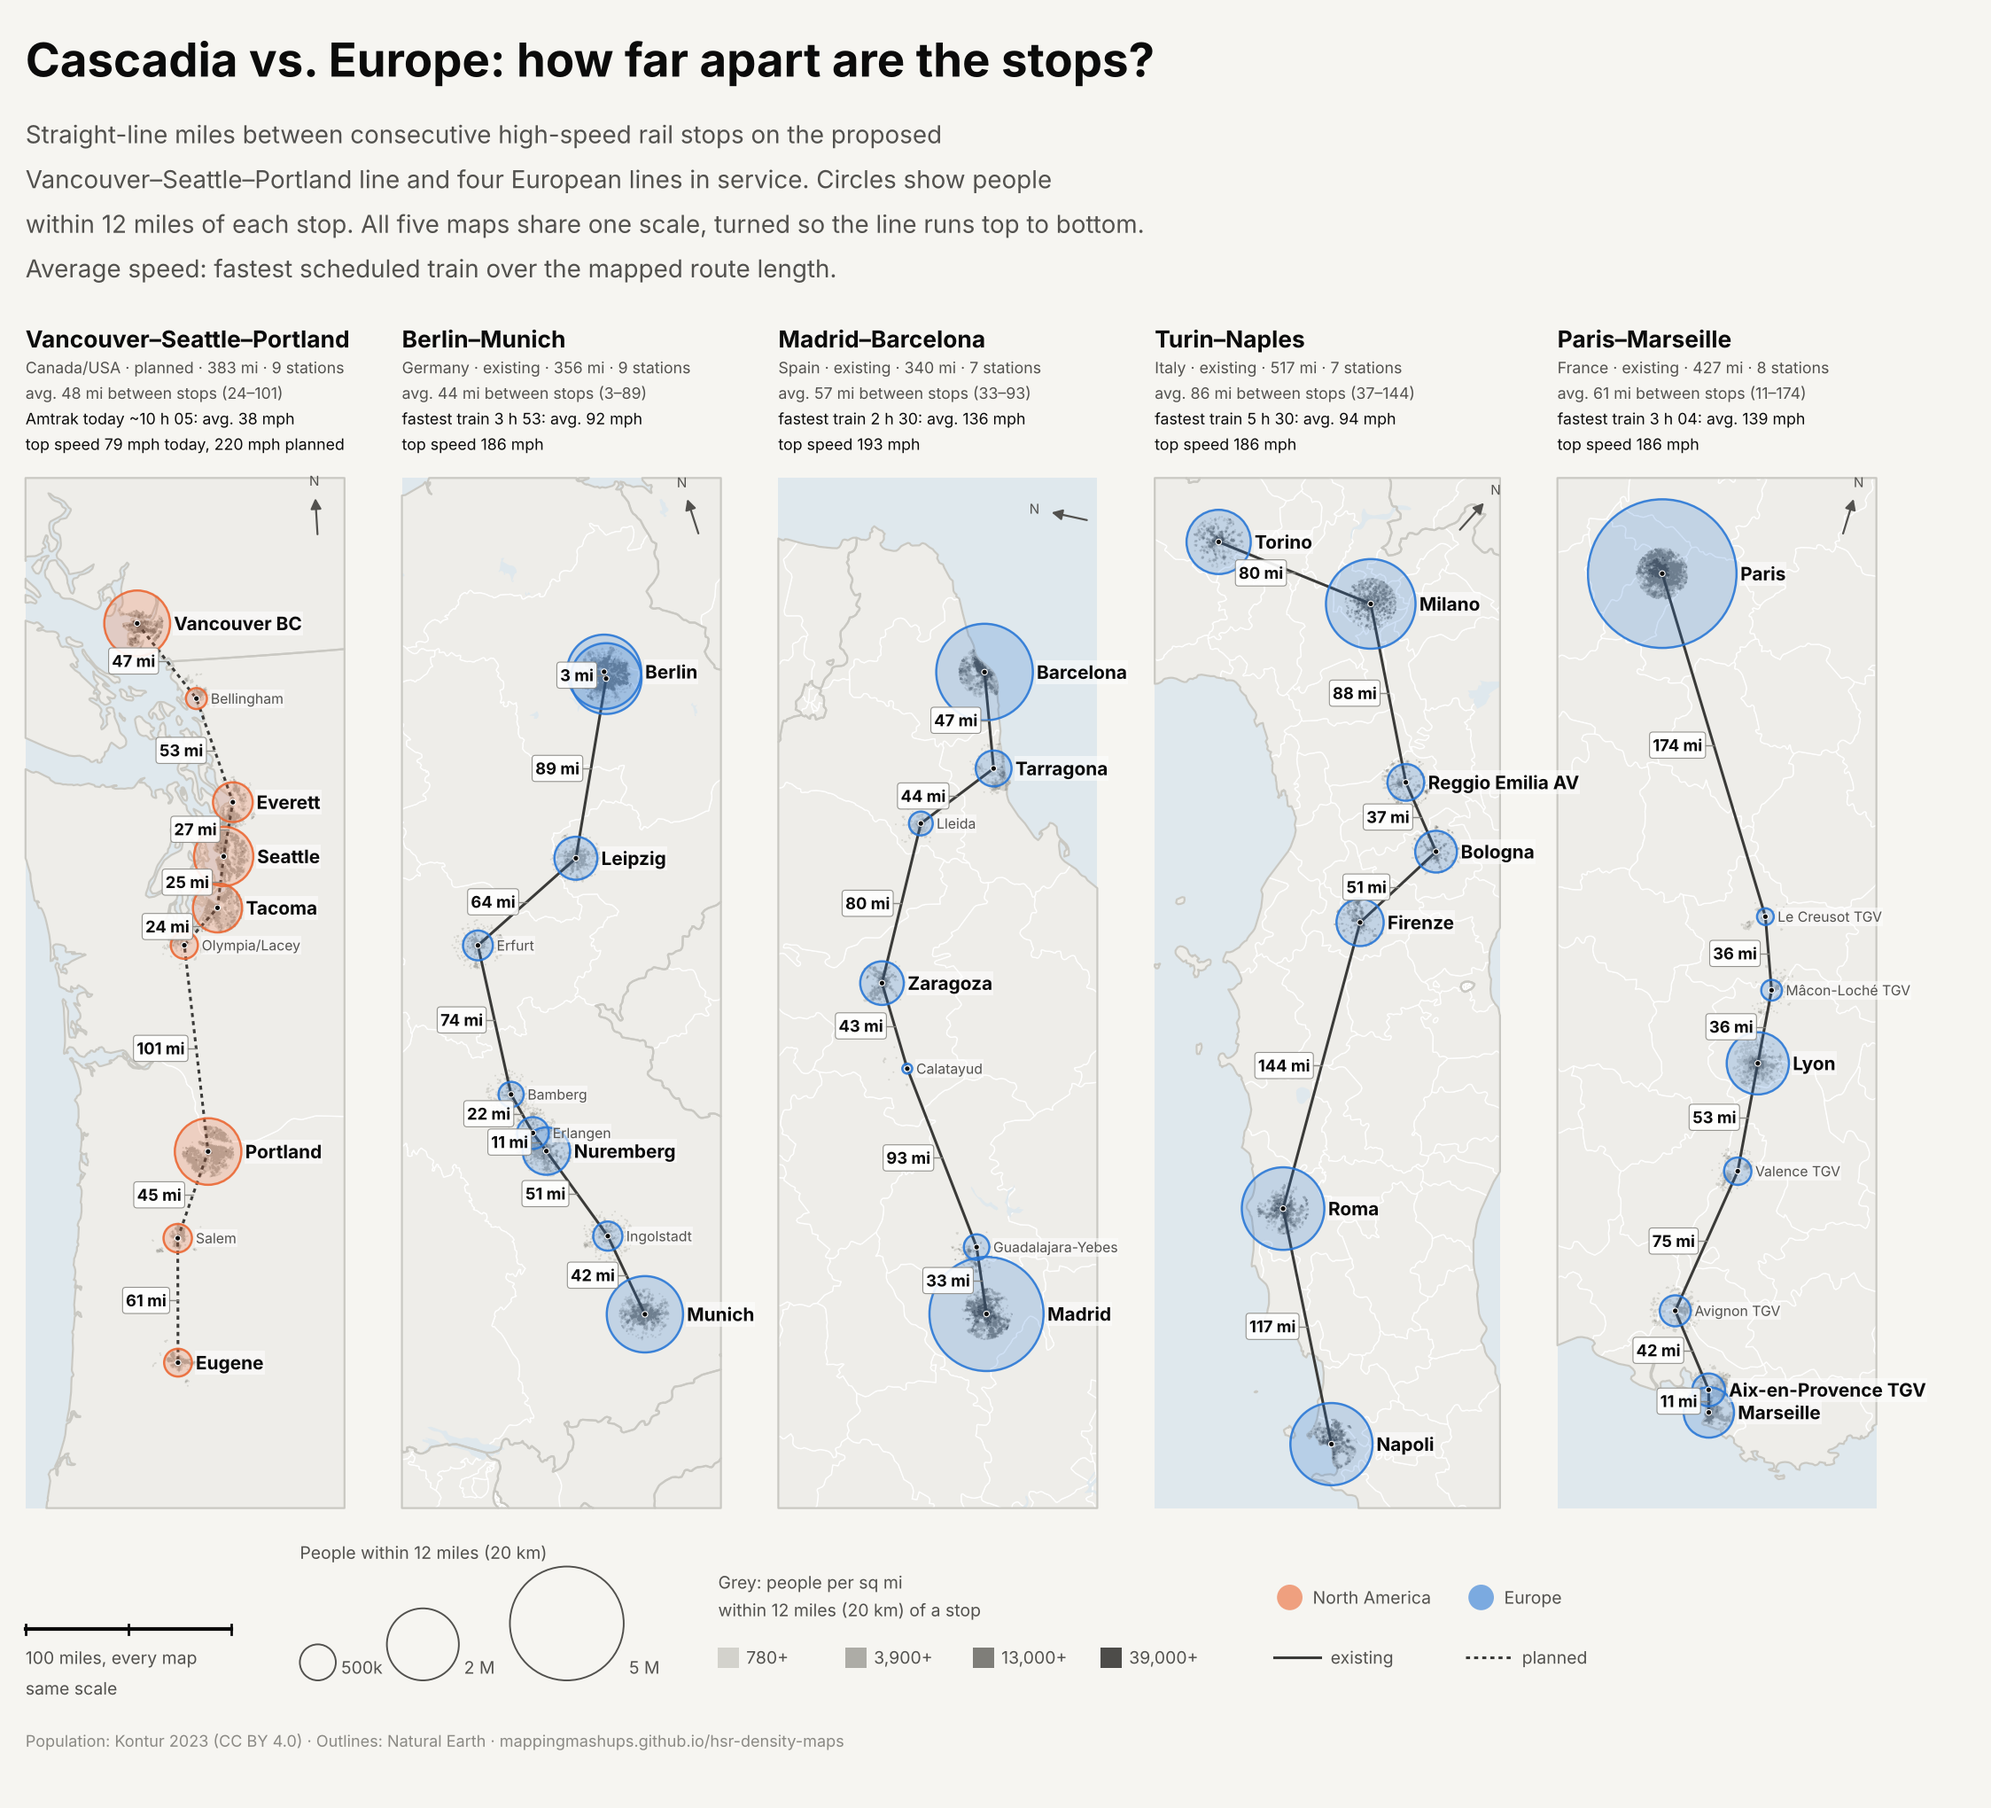
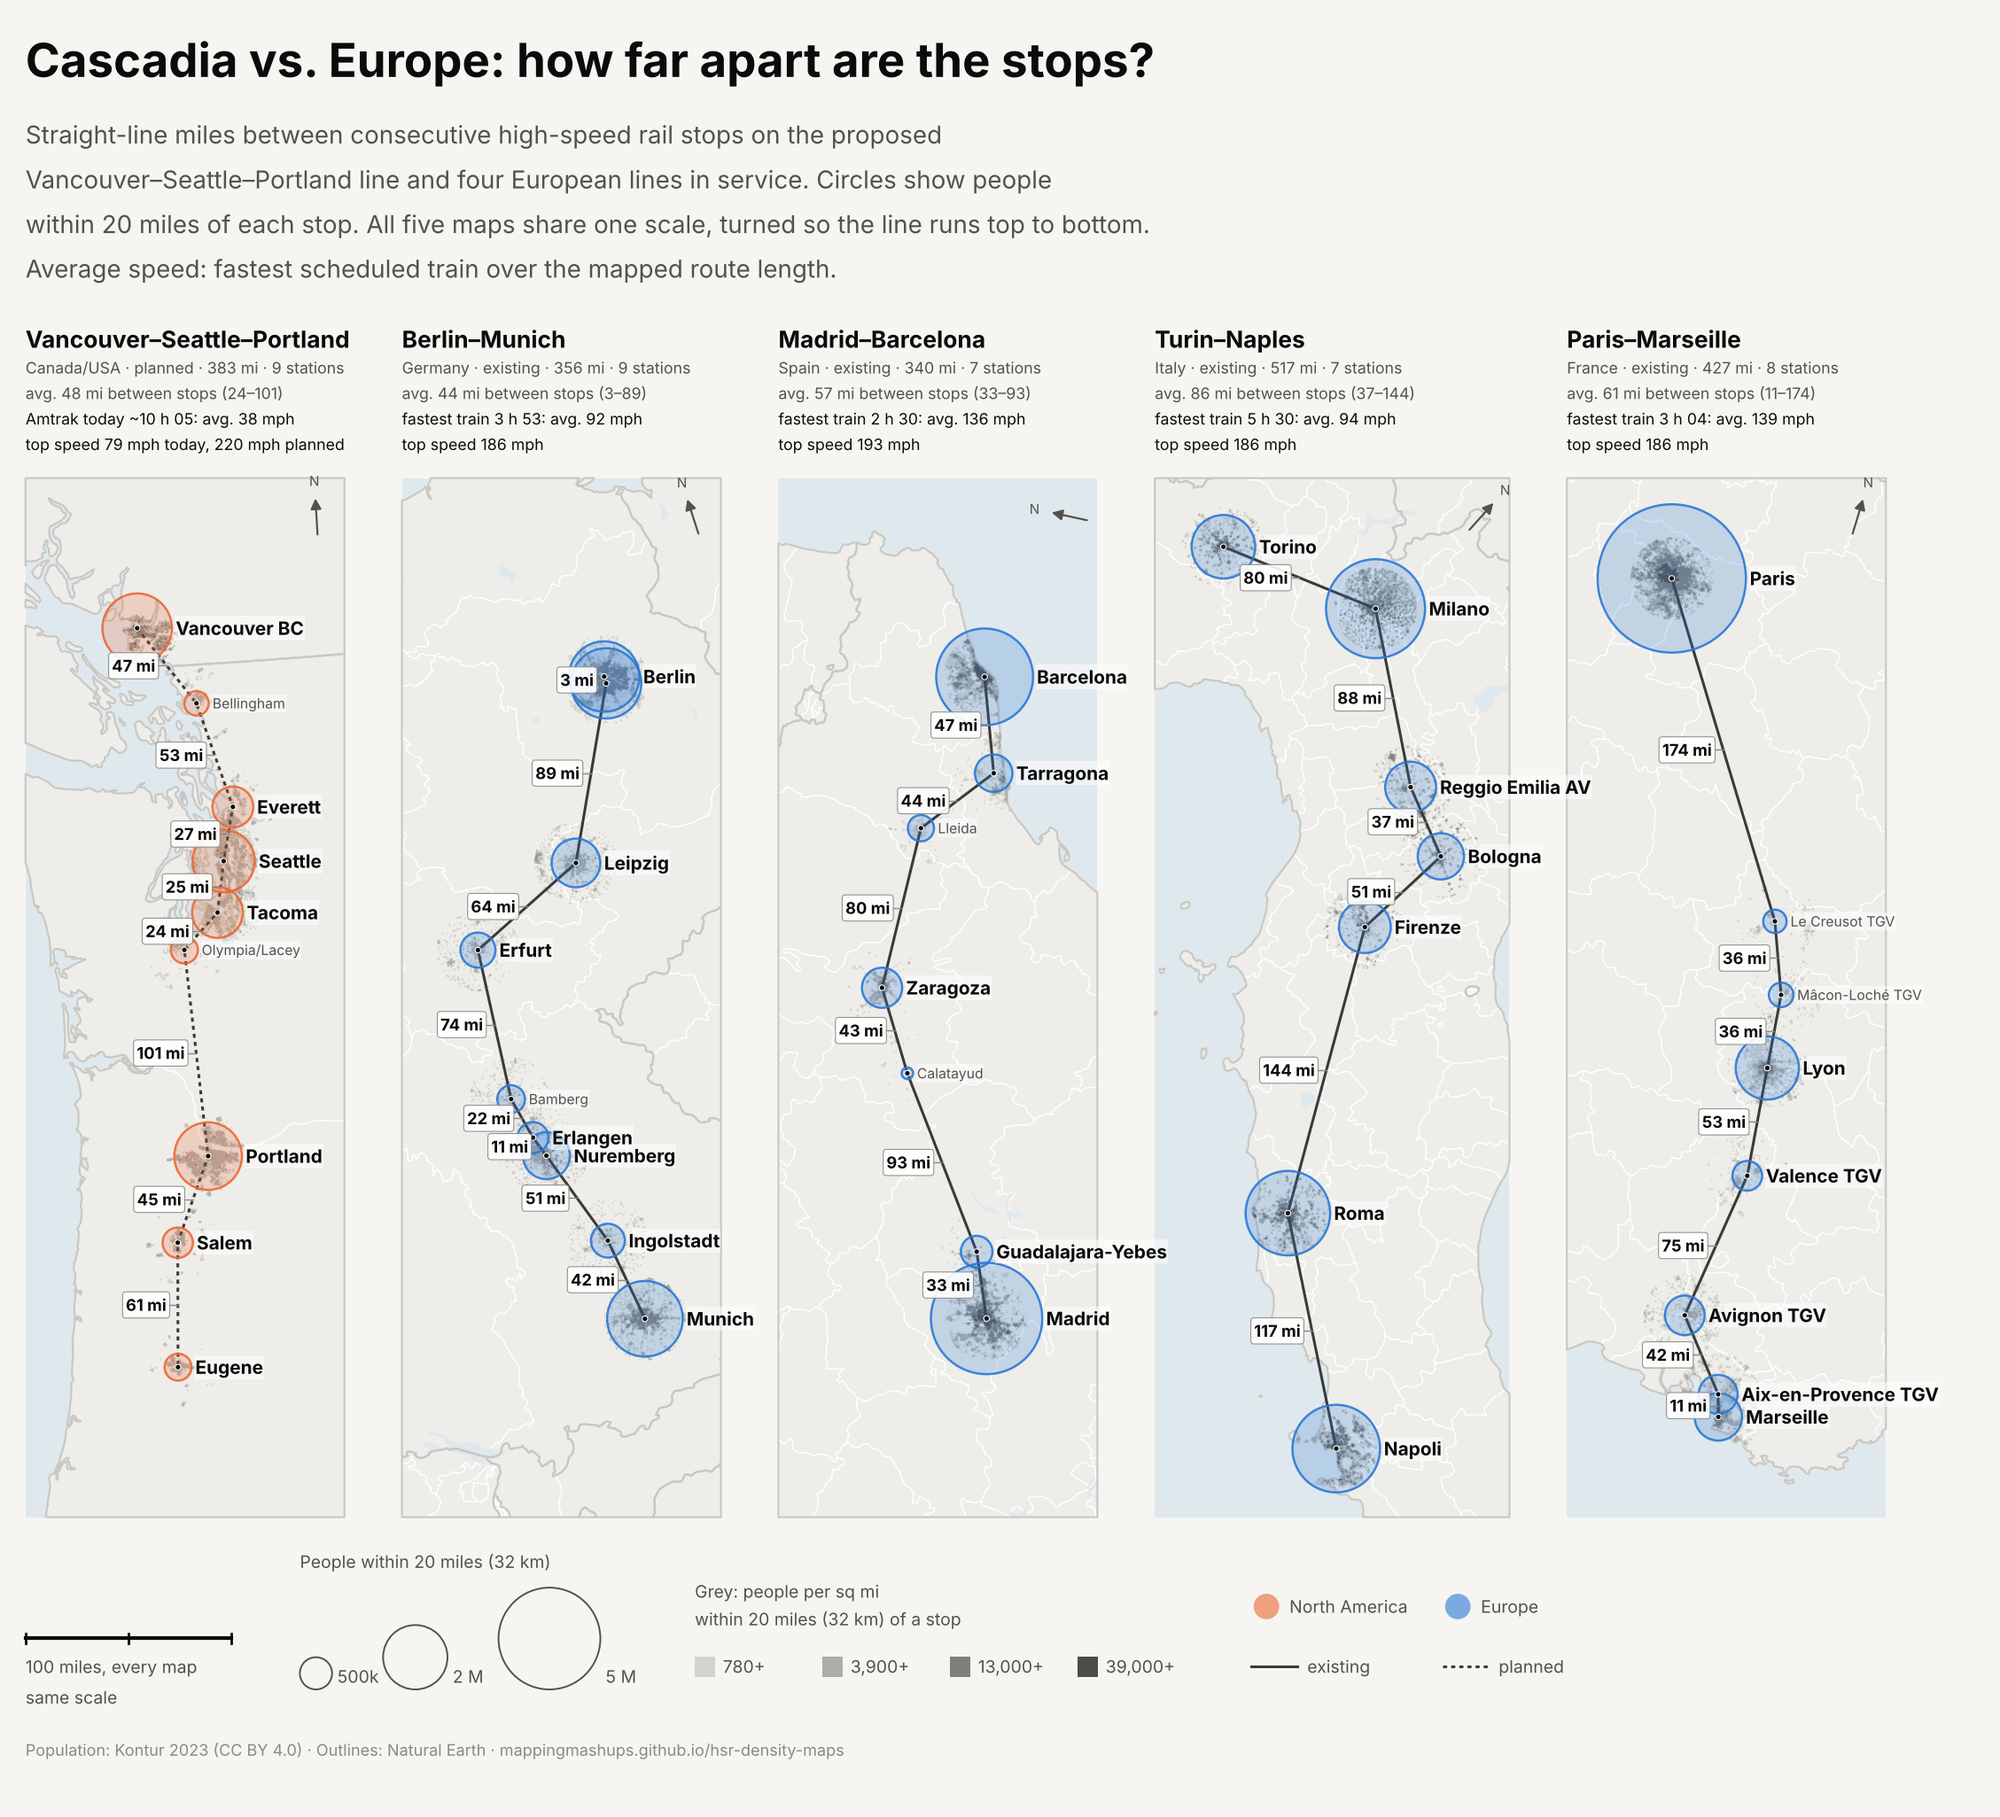
Social image: population circles at 20 miles (32.2 km)
plot_maps.add_radius counts people at any radius up to 50 km from the cached
hexagons with the nearest-station rule; it matches popcalc.py exactly at 20 km.

Claude-Session: https://claude.ai/code/session_01JpWq1kKE2oNV85oNVQWwXU

diff --git a/plot_maps.py b/plot_maps.py
@@ -63,6 +63,19 @@ ADM0 = gpd.read_file(os.path.join(ne, "ne_10m_admin_0_countries.geojson"))[["geo
 LAKES = gpd.read_file(os.path.join(ne, "ne_10m_lakes.geojson"))[["geometry"]]
 
 
+def add_radius(cids, r):
+    """Counted population (nearest-station rule, as popcalc.py) at any radius up to 50 km,
+    from the cached hexagons; stored in POP as dedup_<r> so draw() can use it like the
+    precomputed 5 / 10 / 20 / 50 km values. Matches popcalc.py exactly at those radii."""
+    for cid in cids:
+        sts = CORR[cid]["stations"]
+        h = gpd.read_parquet(os.path.join(OUT, "hex", f"{cid}.parquet"))
+        d = np.array([hav_km(s[1], s[2], h["lon"].values, h["lat"].values) for s in sts])
+        near, dmin = d.argmin(0), d.min(0)
+        for i, s in enumerate(sts):
+            POP[(cid, s[0])][f"dedup_{r}"] = float(h["population"].values[(near == i) & (dmin <= r)].sum())
+
+
 def r_km(pop, density):
     """Circle radius (map km) whose area represents `pop` at `density` people/km²."""
     return np.sqrt(max(pop, 0) / (np.pi * density))
@@ -370,7 +383,7 @@ def social_key(ax, panels, y, page_w, radii, density, bins, shade, miles=False):
     ax.text(x, ky - 12, f"{unit}, every map\nsame scale", fontsize=fs, ha="left", va="top", color=INK2, linespacing=1.4)
     x += 215
     r = max(radii)
-    rlab = f"{r / KM_PER_MI:.0f} miles ({r} km)" if miles else f"{r} km"
+    rlab = f"{r / KM_PER_MI:.0f} miles ({r:.0f} km)" if miles else f"{r:g} km"
     refs = [5e5, 2e6, 5e6] if density <= 1000 else [1e6, 5e6, 15e6]
     ax.text(x, ky + 52, f"People within {rlab}", fontsize=fs, va="bottom", color=INK2)
     base = ky - 40

diff --git a/make_social.py b/make_social.py
@@ -9,7 +9,8 @@ import plot_maps as pm
 from popcalc import hav_km
 
 ORDER = ["cascadia", "de", "es", "it", "fr"]
-RADIUS, DENSITY = 20, 800   # same radius and circle scale as the page's default 20 km map
+RADIUS = 20 * pm.KM_PER_MI   # 20 miles (32.2 km), counted from the cached hexagons
+DENSITY = 1000               # people per km² of circle: keeps Paris (10.6 M) about as big as at 20 km / 800
 
 # Fastest scheduled end-to-end time (minutes) and top line speed (km/h), checked Nov 2026.
 # Average speed = straight-line route length through every mapped stop / fastest time, so it
@@ -47,6 +48,7 @@ def speed_lines():
 
 
 if __name__ == "__main__":
+    pm.add_radius(ORDER, RADIUS)
     pm.PER_ROW = len(ORDER)
     pm.MIN_W, pm.GAP = 250, 45   # narrower panels than the page so the image comes out near-square
     pm.TITLE_H = 120             # two extra stats lines (speeds) above each panel

diff --git a/README.md b/README.md
@@ -43,7 +43,7 @@ git-ignored; the published copies are WebP files in `docs/`.
 | Summary charts | `plot_summary.py` | `out/chart_per_km.png`, `out/chart_centralisation.png` |
 | Web page | `build_page.py` (template in `page/template.html`) | `docs/` → GitHub Pages (main branch, `/docs`) |
 | Link-preview image (Slack, social media) | `make_og.py` (needs Playwright + Chromium) | `docs/og.png` |
-| Same-scale social-media image in miles: Cascadia against Germany, Spain, Italy and France, every stop-to-stop distance labelled, average and top train speeds, 20 km circles, title, key and credits | `make_social.py` | `docs/social_cascadia_europe.png` |
+| Same-scale social-media image in miles: Cascadia against Germany, Spain, Italy and France, every stop-to-stop distance labelled, average and top train speeds, 20-mile circles (counted from the hexagon extract), title, key and credits | `make_social.py` | `docs/social_cascadia_europe.png` |
 | Animated comparison GIF (radius sweep); `make_gif.py LEFT RIGHT [--slide KM] [--flip-left] [--flip-right] [--mp4]` for any pair; `--mp4` adds a 1080×1080 Instagram video in `out/` (not committed) | `make_gif.py` (needs Playwright + Chromium, ffmpeg) | `docs/compare_<left>_<right>_radius.gif` |
 
 To recompute one corridor after editing `stations.py`: `python popcalc.py kontur <id>` and
